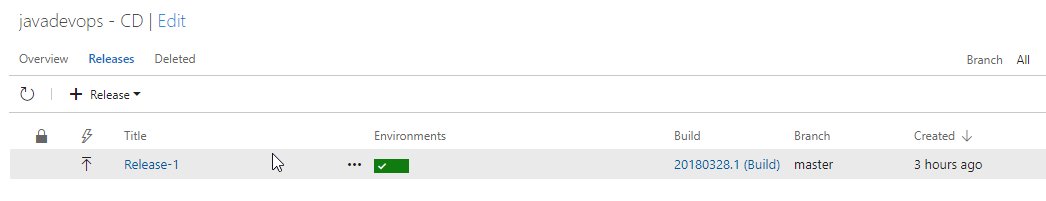
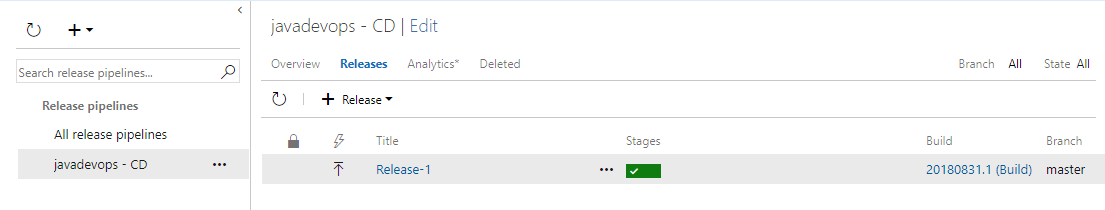
updated content and images

diff --git a/devopsprojectforjava/readme.md b/devopsprojectforjava/readme.md
@@ -56,11 +56,12 @@ The Azure DevOps Project simplifies the initial configuration of a continuous in
 
     ![vstsproject](images/vstsproject.png)
 
-7. In a few minutes, the **project dashboard** loads in the Azure portal. A sample java application is set up in a repository in your VSTS account, a build executes, and your application deploys to Azure. This dashboard provides visibility into your **code repository**, **VSTS CI/CD pipeline**, and your **application in Azure**. 
+7. In a few minutes, the resources are created. Click on the Notifications icon and click **Go to resource**. A **project dashboard** loads in the Azure portal. A sample java application is set up in a repository in your VSTS account, a build executes, and your application deploys to Azure. This dashboard provides visibility into your **code repository**, **VSTS CI/CD pipeline**, and your **application in Azure**. 
 
    ![dashboard](images/dashboard.png)
 
 8.  On the right side of the dashboard, select **Browse** to view your running application.
+
     ![browsewebapp](images/browsewebapp.png)
 
     The web app look like as shown in below figure
@@ -120,9 +121,9 @@ The Azure DevOps Project simplifies the initial configuration of a continuous in
 
        ![releasetasks](images/releasetasks.png)
 
-13. On the right-hand side of the browser, select **View releases**. This view shows a history of releases.
+13. On the right-hand side of the browser, click the ellipsis and select **View releases**. This view shows a history of releases.
 
-    ![viewreleases](images/viewreleases.png)
+    ![viewreleases](images/viewreleases.png) 
 
     ![releasehistory](images/releasehistory.png)
 
@@ -132,7 +133,9 @@ The Azure DevOps Project simplifies the initial configuration of a continuous in
 
     ![releasesummary](images/releasesummary.png)
 
-15. Select **Logs**. The logs contain useful information about the deployment process. They can be viewed both during and after deployments.
+15. Under **Stages**, hover the mouse on **Dev** environment and click **Logs**. The logs contain useful information about the deployment process. They can be viewed both during and after deployments.
+
+     ![Environment](images/dev_logs.png)
 
      ![logs](images/logs.png)
 
